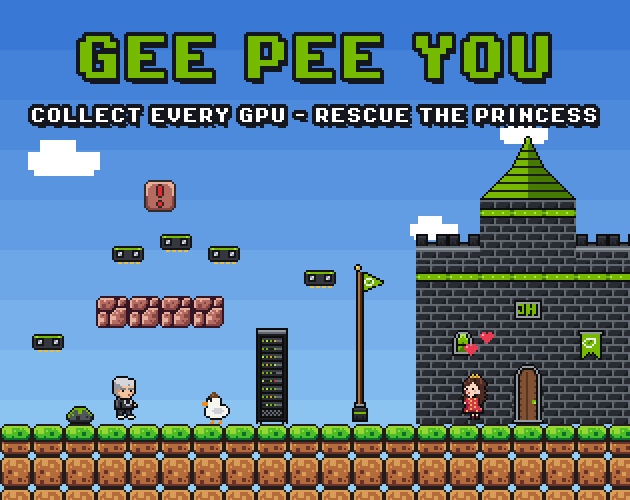
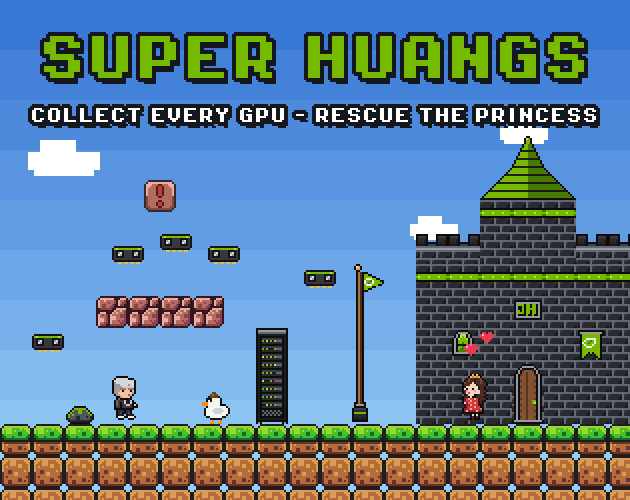
Rename game to Super Huangs and regenerate cover

Changed region(s): [[0.0603, 0.06, 0.9349, 0.18]]

diff --git a/tools/make_cover.py b/tools/make_cover.py
@@ -97,7 +97,7 @@ def text(s, size, y, fill, font='PixelOperator8-Bold.ttf'):
             if abs(ox) + abs(oy) <= 3:
                 stamp(m, (20, 24, 30, 255), ox, oy)  # outline
     stamp(m, fill, 0, 0)
-text('GEE PEE YOU', 24, 18, (118, 186, 0, 255))
+text('SUPER HUANGS', 24, 18, (118, 186, 0, 255))
 text('COLLECT EVERY GPU - RESCUE THE PRINCESS', 8, 54, (255, 255, 255, 255))
 
 out = img.resize((W * 2, H * 2), Image.NEAREST).convert('RGB')
